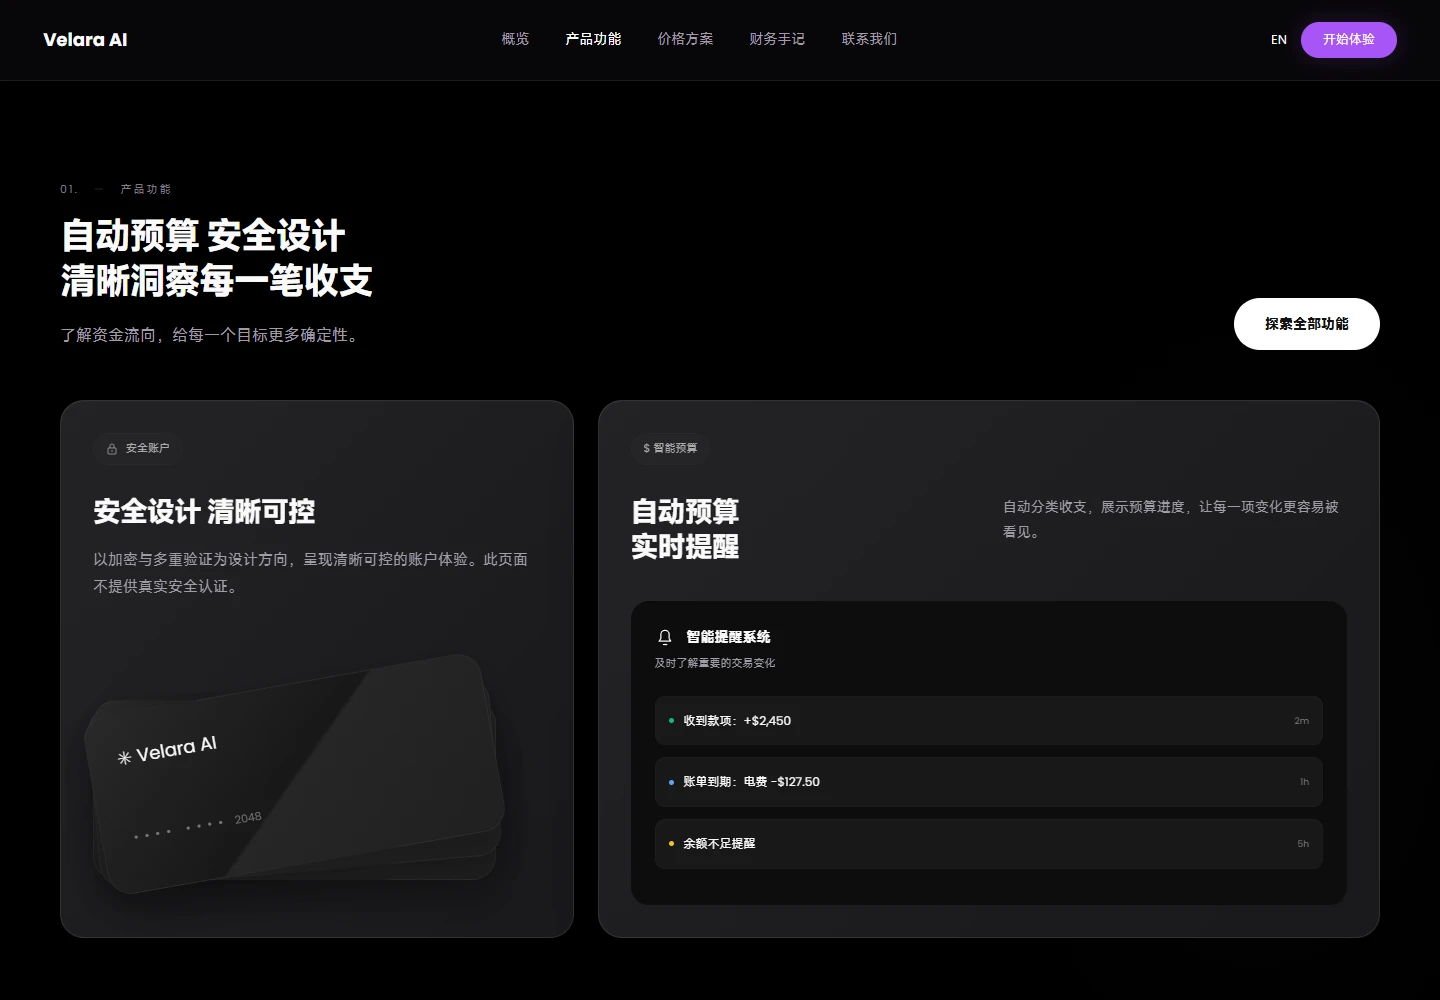
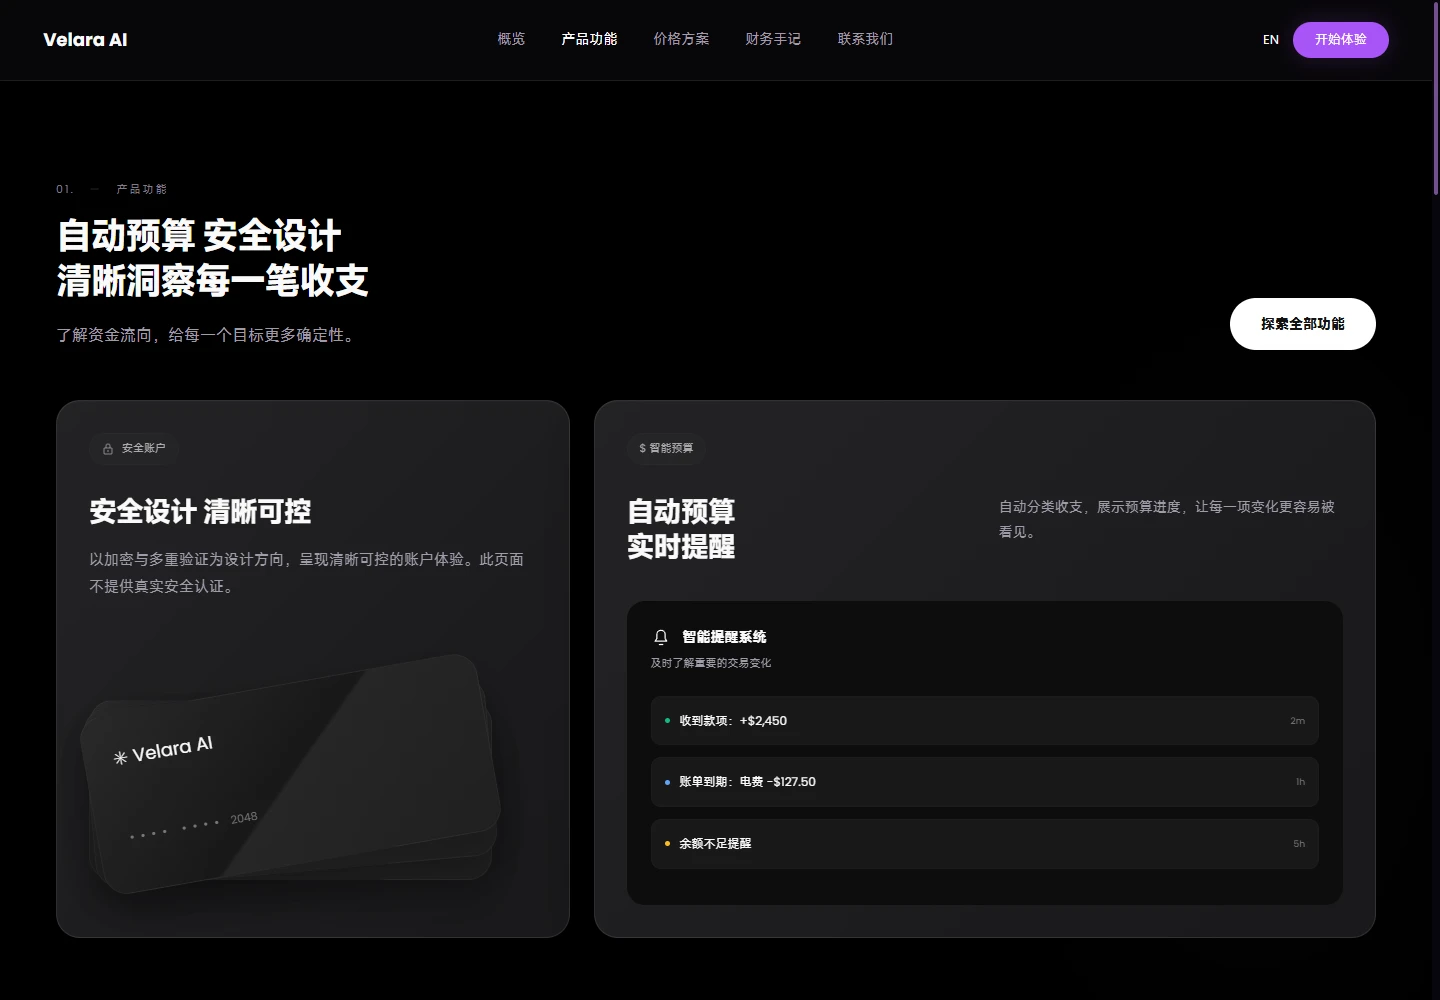
style: theme Velara native scrollbars

diff --git a/src/features/site-templates/catalog/velara/theme.css b/src/features/site-templates/catalog/velara/theme.css
@@ -15,3 +15,21 @@
 @media(max-width:900px){.va-nav-links{display:none}.va-menu-button{display:flex}.va-nav{min-height:70px;padding-top:14px;padding-bottom:14px}.va-nav-cta{display:flex}.va-hero{min-height:1000px}.va-hero-copy{padding-top:170px}.va-hero-dashboard{margin-top:80px}.va-dash-sidebar{width:65px;padding:28px 10px}.va-dash-grid{grid-template-columns:1fr 1fr}.va-assets{padding:20px 15px}.va-assets>div{flex-wrap:wrap;gap:8px}.va-assets b{margin-left:12px}.va-value{font-size:28px}.va-dash-main{padding:24px}.va-benefits{grid-template-columns:repeat(2,1fr)}.va-steps{grid-template-columns:repeat(2,1fr)}.va-step:last-child{grid-column:span 2;display:grid;grid-template-columns:1fr 1fr;align-items:center}.va-step:last-child .va-step-demo{border-bottom:0;border-right:1px solid var(--va-border)}.va-feature-grid{grid-template-columns:1fr 1fr;gap:20px}.va-feature-lock,.va-feature-alerts,.va-feature-budget,.va-stat-column{grid-column:span 1}.va-feature-lock,.va-feature-alerts{padding:25px;min-height:530px}.va-feature-budget{padding:25px}.va-alert-panel{padding:18px}.va-alert-row{font-size:10px;padding:10px}.va-alert-row small{display:none}.va-feature-copy h3{font-size:24px}.va-feature-copy p{font-size:14px}.va-global{gap:40px;grid-template-columns:1fr}.va-globe{height:480px}.va-global>div:last-child{max-width:650px}.va-testimonials{grid-template-columns:1fr 1.5fr;gap:30px}.va-review-columns{gap:15px}.va-review{padding:25px 15px;min-height:300px}.va-review blockquote{font-size:12px}.va-testimonial-intro{min-height:650px}.va-security-grid{grid-template-columns:repeat(2,1fr);gap:40px}.va-download{margin-top:70px;gap:30px;padding:40px 0 40px 35px}.va-download-preview{width:540px}.va-plans{grid-template-columns:1fr 1fr;gap:20px}.va-plan:last-child{grid-column:span 2}.va-plan:last-child .va-plan-features ul{display:grid;grid-template-columns:1fr 1fr}.va-footer-columns{grid-template-columns:1fr 1fr;gap:35px}.va-article-grid{grid-template-columns:1fr 1fr}.va-article-card:last-child{grid-column:span 2}.va-contact{gap:35px}.va-contact form{padding:25px}.va-about-grid{grid-template-columns:1fr}.va-heading-row{align-items:flex-start;flex-direction:column}.va-hero-copy>p{font-size:16px}}
 @media(max-width:600px){.va-root{--va-gap:20px;--va-section:64px;--va-radius:20px}.va-nav{min-height:64px}.va-nav-cta{display:none}.va-nav-actions{gap:18px}.va-brand{font-size:18px}.va-hero{min-height:885px;padding:0 14px}.va-hero-copy{padding-top:140px}.va-badge{font-size:9px;letter-spacing:1px;margin-bottom:28px;gap:8px}.va-hero h1{font-size:28px;line-height:1.35}.va-hero-copy>p{font-size:15px;white-space:normal;padding:0 12px;margin:20px auto 28px}.va-hero-actions{gap:10px;flex-wrap:wrap}.va-hero-actions .va-button{min-height:46px;font-size:12px;padding:10px 22px}.va-hero-dashboard{margin-top:65px}.va-dashboard{border-radius:24px;min-height:350px}.va-dash-sidebar{display:none}.va-dash-main{padding:18px;min-width:0}.va-dash-toolbar{margin-bottom:20px;gap:6px}.va-dash-toolbar label{padding:10px;width:75%}.va-dash-toolbar label svg{width:14px}.va-dash-toolbar kbd{display:none}.va-demo-label{font-size:7px;text-align:right}.va-dash-grid{grid-template-columns:1fr}.va-portfolio{padding:20px;border-radius:20px}.va-portfolio>.va-eyebrow{font-size:8px}.va-value{font-size:28px}.va-green{font-size:9px;padding:3px 8px}.va-periods{margin:14px 0;gap:3px}.va-periods button{padding:6px 9px}.va-bars{height:100px;gap:5px}.va-assets{display:none}.va-hero-fade{height:90px}.va-heading{margin-bottom:34px}.va-heading .va-eyebrow{font-size:9px;letter-spacing:1.5px}.va-heading>p:last-child:not(.va-eyebrow){font-size:15px}.va-benefits{grid-template-columns:1fr}.va-benefit{padding:30px}.va-icon-box{width:50px;height:50px;margin-bottom:22px}.va-benefit h3{font-size:20px}.va-steps{grid-template-columns:1fr}.va-step:last-child{grid-column:auto;display:flex}.va-step:last-child .va-step-demo{border-right:0;border-bottom:1px solid var(--va-border)}.va-step-demo{min-height:350px;padding:30px}.va-step-copy{padding:28px}.va-step-copy h3{font-size:22px}.va-feature-grid{grid-template-columns:1fr}.va-feature-lock,.va-feature-alerts,.va-feature-budget,.va-stat-column{grid-column:auto;padding:26px;min-height:0}.va-feature-lock{min-height:500px}.va-feature-copy{gap:14px}.va-feature-copy h3{font-size:25px}.va-card-stack{margin-top:50px}.va-alert-panel{margin-top:28px;padding:18px}.va-alert-row{font-size:11px;padding:12px}.va-stat-column{padding:0;gap:20px}.va-stat{padding:26px;min-height:170px}.va-stat .va-sparkline{right:25px}.va-budget{padding:18px}.va-budget-bars{gap:2px;height:28px}.va-budget p{font-size:8px}.va-global{gap:35px}.va-globe{height:390px}.va-transfer{bottom:20px;left:20px;padding:20px;min-width:190px}.va-flag{font-size:25px;width:40px;height:40px}.va-global .va-button{margin-top:20px}.va-check-list li{font-size:13px}.va-testimonials{display:block}.va-testimonial-intro{position:relative;top:auto;min-height:0;margin-bottom:30px}.va-testimonial-intro .va-heading{max-width:330px}.va-testimonial-intro>div:last-child{margin-top:25px}.va-review-window{height:630px}.va-review-columns{gap:14px}.va-review{padding:25px 15px;min-height:320px}.va-review h3{font-size:13px}.va-review small{font-size:9px}.va-review img{width:48px;height:48px}.va-review .va-stars{letter-spacing:1px;font-size:12px;margin:18px 0 12px}.va-review blockquote{font-size:12px}.va-security-grid{grid-template-columns:1fr;gap:35px}.va-security-grid h3{font-size:19px}.va-security-icon{margin-bottom:18px}.va-download{display:block;padding:30px;margin-top:60px}.va-download-preview{width:520px;margin-top:35px}.va-download .va-dashboard{min-height:250px;height:250px}.va-download-preview>.va-sparkline{bottom:0;left:40px;width:220px}.va-store-buttons{gap:10px}.va-store-buttons button{padding:8px 12px;font-size:12px}.va-store-buttons button>span:first-child{font-size:18px}.va-plans{grid-template-columns:1fr}.va-plan:last-child{grid-column:auto}.va-plan:last-child .va-plan-features ul{display:block}.va-plan{padding:30px}.va-plan-price{font-size:40px}.va-plan>p:not(.va-plan-price){min-height:0}.va-plan-features li{font-size:13px}.va-pricing{padding-bottom:120px}.va-faq button{padding:20px;font-size:15px}.va-faq [role=region]>p{padding:0 20px 20px;font-size:14px}.va-horizon{height:240px}.va-country{font-size:8px}.va-country span{padding:5px 7px}.va-country:nth-last-child(2),.va-country:nth-last-child(4){display:none}.va-footer-columns{grid-template-columns:1fr 1fr;gap:35px 20px;padding:45px 0}.va-footer-columns>div:first-child{grid-column:span 2}.va-footer-bottom{padding-bottom:70px;font-size:10px;gap:12px}.va-wordmark{font-size:22vw;padding-top:30px;letter-spacing:-.08em}.va-market{right:14px;bottom:max(14px,env(safe-area-inset-bottom));height:44px;width:44px;padding:9px}.va-market img{width:24px}.va-market span{display:none}.va-interior-hero{padding:60px 0 40px}.va-interior-hero p{font-size:15px}.va-article-grid{grid-template-columns:1fr}.va-article-card:last-child{grid-column:auto}.va-article-art{height:210px}.va-contact{grid-template-columns:1fr;gap:35px}.va-contact form{padding:24px}.va-prose{padding-top:20px}.va-prose .va-article-art{height:220px}.va-interior{padding-bottom:65px}.va-media-control{font-size:10px;right:12px;bottom:12px}}
 @media(prefers-reduced-motion:reduce){.va-root *{scroll-behavior:auto!important;animation:none!important;transition:none!important}.va-review-window{overflow:auto;mask-image:none}.va-review-track{transform:none!important}.va-review[aria-hidden=true]{display:none}.va-hero-video{opacity:.3}}
+
+/* 用模板根节点限定文档滚动条，离开模板后自动恢复宿主主题。 */
+html:has(.va-root){--va-scroll-track:#08060d;--va-scroll-thumb:#73518e;--va-scroll-hover:#a855f7;scrollbar-gutter:stable;color-scheme:dark}
+html:has(.va-root),.va-root textarea{scrollbar-color:var(--va-scroll-thumb) var(--va-scroll-track);scrollbar-width:thin}
+@supports selector(::-webkit-scrollbar){
+  html:has(.va-root),.va-root textarea{scrollbar-color:auto;scrollbar-width:auto}
+  html:has(.va-root)::-webkit-scrollbar,.va-root textarea::-webkit-scrollbar{width:8px;height:8px}
+  html:has(.va-root)::-webkit-scrollbar-track,.va-root textarea::-webkit-scrollbar-track{background:var(--va-scroll-track)}
+  html:has(.va-root)::-webkit-scrollbar-thumb,.va-root textarea::-webkit-scrollbar-thumb{min-height:44px;border:2px solid var(--va-scroll-track);border-radius:999px;background:var(--va-scroll-thumb);background-clip:padding-box}
+  html:has(.va-root)::-webkit-scrollbar-thumb:hover,.va-root textarea::-webkit-scrollbar-thumb:hover{background:var(--va-scroll-hover);background-clip:padding-box}
+  html:has(.va-root)::-webkit-scrollbar-corner,.va-root textarea::-webkit-scrollbar-corner{background:var(--va-scroll-track)}
+  html:has(.va-root)::-webkit-scrollbar-button,.va-root textarea::-webkit-scrollbar-button{display:none;width:0;height:0}
+}
+@media(forced-colors:active){
+  html:has(.va-root),.va-root textarea{scrollbar-color:auto;scrollbar-width:auto}
+  html:has(.va-root)::-webkit-scrollbar-track,.va-root textarea::-webkit-scrollbar-track{background:Canvas}
+  html:has(.va-root)::-webkit-scrollbar-thumb,.va-root textarea::-webkit-scrollbar-thumb{background:CanvasText;border-color:Canvas}
+}

diff --git a/.tpl/docs/VERIFICATION.md b/.tpl/docs/VERIFICATION.md
@@ -5,3 +5,7 @@
 采集时等待本地字体与图片完成加载、入场动画结束。12 个页面视口均无横向溢出、损坏图片或页面脚本异常。首屏视频已实际加载并播放，截图只证明拍摄时刻的显示状态。
 
 适用的类型、lint、契约测试和构建以 .tpl/reports/verification.json 的实际结果为准。完整动效的原站逐帧一致性、所有系统减少动态设置及三端交互矩阵仍未完成，不声明完整复刻验收通过。素材商业再分发权利仍待核实，listed=false、redistributionAllowed=false。
+
+## 1.0.2 滚动条
+
+文档滚动条通过 html:has(.va-root) 限定作用范围。使用原生滚动条，8px深色轨道、圆角紫色滑块与悬停高亮；表单文本域采用同主题。保留原生滚轮、拖拽、键盘与触控滚动，系统高对比度下使用系统颜色。不创建嵌套文档滚动容器。实际结果以源码摘要对应的验收报告为准。
